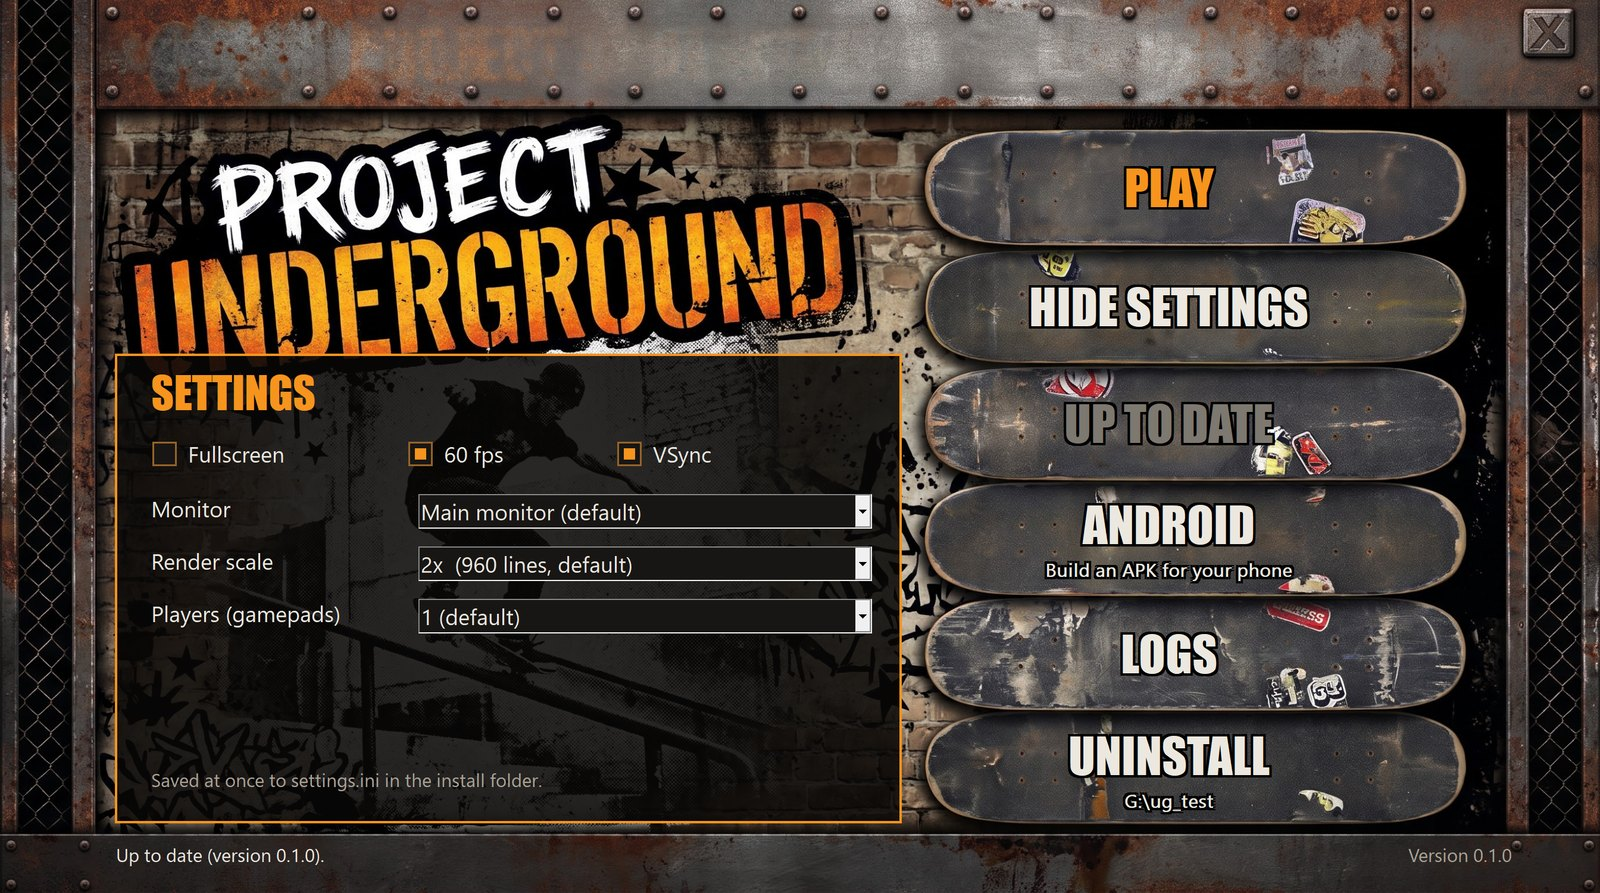
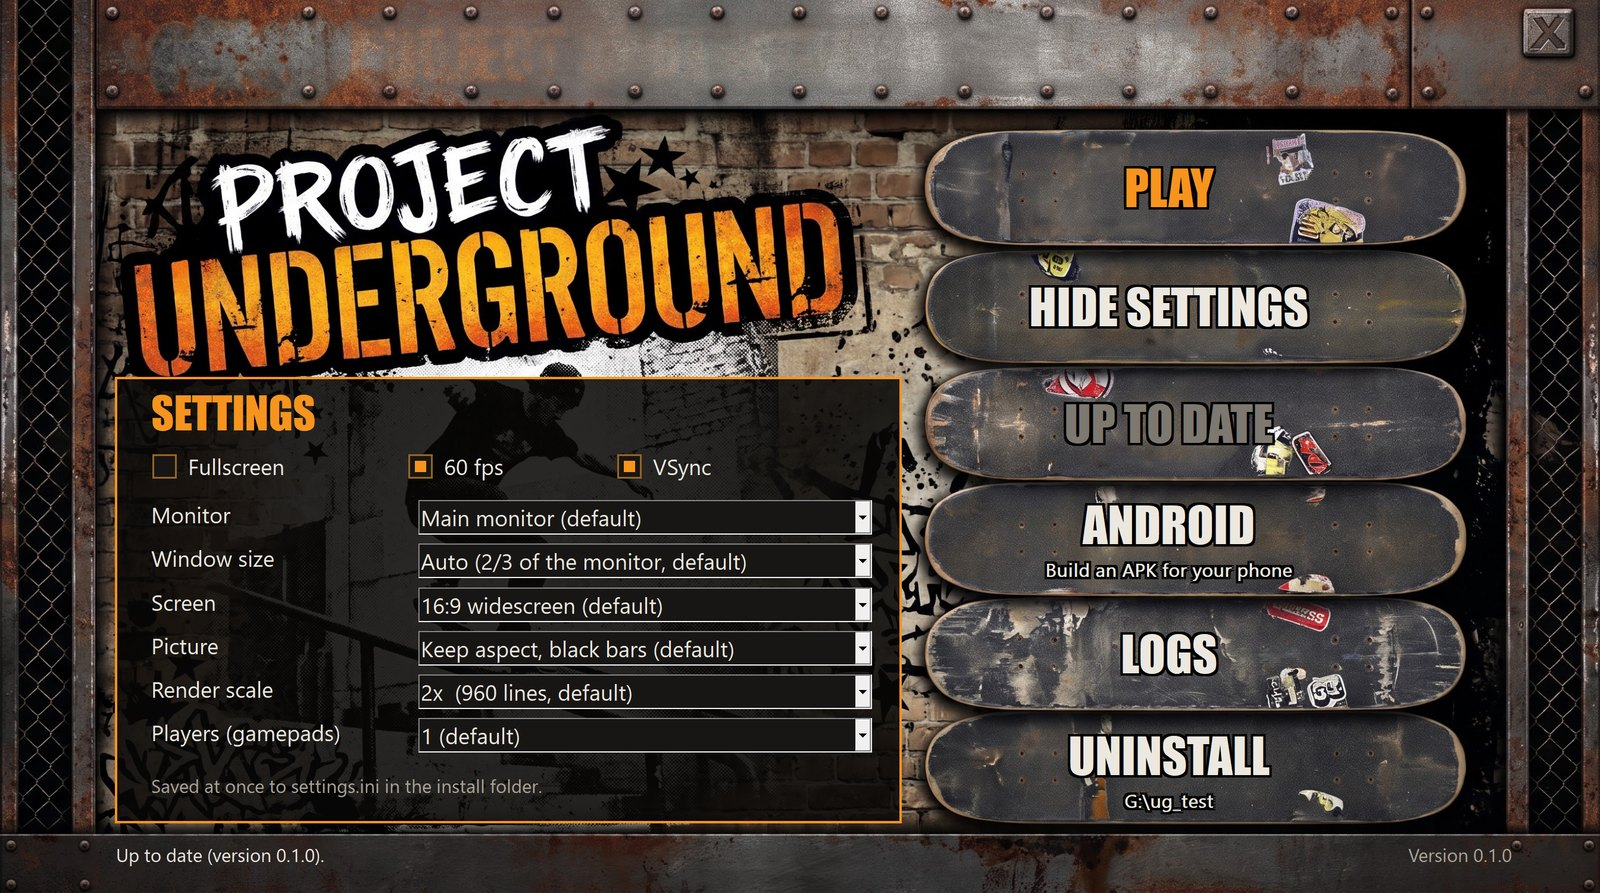
Display: widescreen 16:9, window size, aspect, DPI-aware window
- UG_WIDESCREEN (default on) sets the Xbox widescreen video flag: the game
  renders its own 16:9 mode (wider view, its own HUD layout) and the frame is
  presented at 16:9. UG_WIDESCREEN=0 keeps the original 4:3.
- UG_ASPECT=stretch fills the window; UG_WINDOW=WxH sets the windowed size
  (default 2/3 of the monitor's height at the game's aspect), centred on the
  chosen monitor (Windows and Linux).
- The game window is per-monitor DPI aware: no blurry upscale at 125-200%
  display scaling, sizes are real pixels.
- Launcher settings: Window size, Screen (16:9 / 4:3) and Picture (keep
  aspect / stretch).
- README: display features; fixed setup/launcher screenshots (the earlier
  captures were cut off by display scaling).

Claude-Session: https://claude.ai/code/session_01JYzPseC2DJZuhaFYBPRHMa

Changed region(s): [[0.0938, 0.4838, 0.5625, 0.9071], [0.0625, 0.3931, 0.5625, 0.6349], [0.0938, 0.6652, 0.2188, 0.7861]]

diff --git a/installer/setup.cpp b/installer/setup.cpp
@@ -52,7 +52,7 @@ static const wchar_t kShortcut[] = L"Project Underground.lnk";
 
 enum { ID_ISO_BROWSE = 200, ID_DIR_BROWSE, ID_DESKTOP, ID_STARTMENU, ID_INSTALL, ID_PROGRESS,
        ID_STATUS, ID_PLAY, ID_UPDATE, ID_UNINSTALL, ID_FULLSCREEN, ID_SCALE, ID_PADS, ID_FPS60, ID_VSYNC, ID_LOGS,
-       ID_MONITOR, ID_ANDROID, ID_SETTINGS, ID_QUIT, ID_CLOSE };
+       ID_MONITOR, ID_ANDROID, ID_SETTINGS, ID_QUIT, ID_CLOSE, ID_WINSIZE, ID_SCREEN, ID_FIT };
 #define WM_APP_STATUS (WM_APP + 1)
 #define WM_APP_PROGRESS (WM_APP + 2)
 #define WM_APP_DONE (WM_APP + 3)
@@ -466,6 +466,14 @@ struct Choice { const wchar_t* label; const wchar_t* value; };   // value nullpt
 static const Choice kScale[] = {{L"2x  (960 lines, default)", nullptr}, {L"1x  (480 lines)", L"1"}, {L"3x  (1440 lines)", L"3"},
                                 {L"4x  (1920 lines)", L"4"}, {L"5x  (2400 lines)", L"5"}, {L"6x  (2880 lines)", L"6"}};
 static const Choice kPads[] = {{L"1 (default)", nullptr}, {L"2", L"2"}, {L"3", L"3"}, {L"4", L"4"}};
+// UG_WINDOW: windowed client size (default: 2/3 of the monitor's height at the game's aspect)
+static const Choice kWinSize[] = {{L"Auto (2/3 of the monitor, default)", nullptr}, {L"1280 x 720", L"1280x720"},
+                                  {L"1600 x 900", L"1600x900"}, {L"1920 x 1080", L"1920x1080"},
+                                  {L"2560 x 1440", L"2560x1440"}, {L"3840 x 2160", L"3840x2160"},
+                                  {L"960 x 720  (4:3)", L"960x720"}, {L"1440 x 1080  (4:3)", L"1440x1080"}};
+// UG_WIDESCREEN: the game's own 16:9 mode (Xbox widescreen flag), on by default; UG_ASPECT=stretch fills the window
+static const Choice kScreen[] = {{L"16:9 widescreen (default)", nullptr}, {L"4:3 original", L"0"}};
+static const Choice kFit[] = {{L"Keep aspect, black bars (default)", nullptr}, {L"Stretch to the window", L"stretch"}};
 // Monitors in EnumDisplayMonitors order (the game's UG_MONITOR uses the same order); filled by InitMonitors.
 static Choice kMonitor[10] = {{L"Main monitor (default)", nullptr}};
 static std::wstring g_monLabels[9];
@@ -484,8 +492,9 @@ static BOOL CALLBACK MonEnum(HMONITOR m, HDC, LPRECT, LPARAM) {
     return TRUE;
 }
 struct ComboSetting { int id; const wchar_t* key; const Choice* c; int n; };
-static ComboSetting kCombos[] = {{ID_MONITOR, L"UG_MONITOR", kMonitor, 1}, {ID_SCALE, L"UG_SCALE", kScale, 6},
-                                 {ID_PADS, L"UG_PADS", kPads, 4}};
+static ComboSetting kCombos[] = {{ID_MONITOR, L"UG_MONITOR", kMonitor, 1}, {ID_WINSIZE, L"UG_WINDOW", kWinSize, 8},
+                                 {ID_SCREEN, L"UG_WIDESCREEN", kScreen, 2}, {ID_FIT, L"UG_ASPECT", kFit, 2},
+                                 {ID_SCALE, L"UG_SCALE", kScale, 6}, {ID_PADS, L"UG_PADS", kPads, 4}};
 static void InitMonitors() {
     EnumDisplayMonitors(nullptr, nullptr, MonEnum, 0);
     for (auto& cs : kCombos) if (cs.id == ID_MONITOR) cs.n = g_nMonitors;
@@ -618,10 +627,11 @@ static void BuildArt(int w, int h) {
         SelectObject(pd, op); SelectObject(pd, ob);
         DeleteObject(pen);
         ArtText(pd, {260, 665, 1500, 755}, g_titleFont, kAccent, L"SETTINGS", DT_SINGLELINE | DT_VCENTER);
-        ArtText(pd, {260, 875, 700, 935}, g_font, kText, L"Monitor", DT_SINGLELINE | DT_VCENTER);
-        ArtText(pd, {260, 965, 700, 1025}, g_font, kText, L"Render scale", DT_SINGLELINE | DT_VCENTER);
-        ArtText(pd, {260, 1055, 700, 1115}, g_font, kText, L"Players (gamepads)", DT_SINGLELINE | DT_VCENTER);
-        ArtText(pd, {260, 1300, 1500, 1380}, g_smallFont, kDim,
+        static const wchar_t* rows[] = {L"Monitor", L"Window size", L"Screen", L"Picture", L"Render scale",
+                                        L"Players (gamepads)"};
+        for (int i = 0; i < 6; i++)
+            ArtText(pd, {260, 855 + 75 * i, 700, 915 + 75 * i}, g_font, kText, rows[i], DT_SINGLELINE | DT_VCENTER);
+        ArtText(pd, {260, 1310, 1500, 1390}, g_smallFont, kDim,
                 L"Saved at once to settings.ini in the install folder.", DT_SINGLELINE | DT_VCENTER);
     }
     DeleteDC(pd);
@@ -845,7 +855,8 @@ static void Launch(const std::wstring& dir) {
 
 // Launcher settings controls (shown on the panel over the art when the SETTINGS board is on).
 static HWND g_settingsBtn;
-static const int kSettingIds[] = {ID_FULLSCREEN, ID_FPS60, ID_VSYNC, ID_MONITOR, ID_SCALE, ID_PADS};
+static const int kSettingIds[] = {ID_FULLSCREEN, ID_FPS60, ID_VSYNC, ID_MONITOR, ID_WINSIZE, ID_SCREEN, ID_FIT, ID_SCALE,
+                                  ID_PADS};
 static void ShowSettings(bool on) {
     g_panel = on;
     SelectObject(g_artDC, on ? g_artPanelBmp : g_artBmp);
@@ -896,7 +907,7 @@ static bool LauncherCommand(HWND h, int id, int code) {
     case ID_FULLSCREEN: case ID_FPS60: case ID_VSYNC:
         if (code == BN_CLICKED) SaveSettings();
         return true;
-    case ID_SCALE: case ID_PADS: case ID_MONITOR:
+    case ID_SCALE: case ID_PADS: case ID_MONITOR: case ID_WINSIZE: case ID_SCREEN: case ID_FIT:
         if (code == CBN_SELCHANGE) SaveSettings();
         return true;
     }
@@ -1047,12 +1058,15 @@ static void CreateLauncherControls() {
     MakeBoard(5, L"UNINSTALL", ID_UNINSTALL);
     SetSub(ID_UNINSTALL, g_instDir);
     MakeStatusBar(L"Checking for updates...", false);
-    MakeCheck(L"Fullscreen", ID_FULLSCREEN, 260, 780, 380);
-    MakeCheck(L"60 fps", ID_FPS60, 700, 780, 300);
-    MakeCheck(L"VSync", ID_VSYNC, 1060, 780, 300);
-    MakeCombo(ID_MONITOR, kMonitor, g_nMonitors, 720, 880, 780);
-    MakeCombo(ID_SCALE, kScale, 6, 720, 970, 780);
-    MakeCombo(ID_PADS, kPads, 4, 720, 1060, 780);
+    MakeCheck(L"Fullscreen", ID_FULLSCREEN, 260, 772, 380);
+    MakeCheck(L"60 fps", ID_FPS60, 700, 772, 300);
+    MakeCheck(L"VSync", ID_VSYNC, 1060, 772, 300);
+    MakeCombo(ID_MONITOR, kMonitor, g_nMonitors, 720, 860, 780);
+    MakeCombo(ID_WINSIZE, kWinSize, 8, 720, 935, 780);
+    MakeCombo(ID_SCREEN, kScreen, 2, 720, 1010, 780);
+    MakeCombo(ID_FIT, kFit, 2, 720, 1085, 780);
+    MakeCombo(ID_SCALE, kScale, 6, 720, 1160, 780);
+    MakeCombo(ID_PADS, kPads, 4, 720, 1235, 780);
     for (int id : kSettingIds) ShowWindow(GetDlgItem(g_wnd, id), SW_HIDE);
     LoadSettings();
     SetFocus(play);

diff --git a/runtime/src/gpu_vulkan.c b/runtime/src/gpu_vulkan.c
@@ -43,6 +43,7 @@ static uint32_t frame_no;
 
 #ifdef _WIN32
 
+static volatile int g_creating;
 static void toggle_fullscreen(HWND h) {
     static WINDOWPLACEMENT saved = {sizeof saved};
     LONG st = GetWindowLongW(h, GWL_STYLE);
@@ -71,6 +72,12 @@ static LRESULT CALLBACK wndproc(HWND h, UINT m, WPARAM w, LPARAM l) {
         if (w == VK_RETURN && (l & (1 << 29))) { toggle_fullscreen(h); return 0; }
         break;
     case WM_SYSCHAR: if (w == VK_RETURN) return 0; break;
+    case 0x02E0: {   /* WM_DPICHANGED (moved to a monitor with another scale): take Windows' suggested rect */
+        const RECT *s = (const RECT *)l;
+        if (!g_creating && !(GetWindowLongW(h, GWL_STYLE) & WS_POPUP))
+            SetWindowPos(h, NULL, s->left, s->top, s->right - s->left, s->bottom - s->top, SWP_NOZORDER | SWP_NOACTIVATE);
+        return 0;
+    }
     default: break;
     }
     return DefWindowProcW(h, m, w, l);
@@ -91,6 +98,16 @@ static BOOL CALLBACK mon_enum(HMONITOR m, HDC dc, LPRECT rc, LPARAM lp) {
 }
 
 static DWORD WINAPI window_thread(LPVOID ev) {
+    {   /* per-monitor DPI aware: else Windows scales a smaller swapchain up (blurry at 125-200% display scaling) and
+         * UG_WINDOW sizes would be in scaled units, not pixels */
+        typedef BOOL(WINAPI * SetCtx)(HANDLE);
+        SetCtx f = (SetCtx)(void *)GetProcAddress(GetModuleHandleW(L"user32.dll"), "SetProcessDpiAwarenessContext");
+        if (f && !f((HANDLE)-4)) LOG("[gpu] DPI awareness not set (error %lu)\n", GetLastError());   /* PER_MONITOR_AWARE_V2 */
+        /* this thread already exists: it keeps the old context unless it is set for the thread too */
+        typedef HANDLE(WINAPI * SetThr)(HANDLE);
+        SetThr t = (SetThr)(void *)GetProcAddress(GetModuleHandleW(L"user32.dll"), "SetThreadDpiAwarenessContext");
+        if (t) t((HANDLE)-4);
+    }
     WNDCLASSW wc = {0};
     wc.lpfnWndProc = wndproc;
     wc.hInstance = GetModuleHandleW(NULL);
@@ -115,13 +132,30 @@ static DWORD WINAPI window_thread(LPVOID ev) {
     HMONITOR hm = mp.found ? MonitorFromRect(&mp.pick, MONITOR_DEFAULTTONEAREST) : MonitorFromPoint(origin, MONITOR_DEFAULTTOPRIMARY);
     MONITORINFO mi = {sizeof mi};
     GetMonitorInfoW(hm, &mi);
+    /* client size: UG_WINDOW=WxH, else 2/3 of the monitor's height at the game's aspect; centred on the monitor */
     int mh = mi.rcMonitor.bottom - mi.rcMonitor.top;
-    int wh = mh * 2 / 3, ww = wh * 4 / 3;
+    int wh = mh * 2 / 3, ww = ug_widescreen() ? wh * 16 / 9 : wh * 4 / 3;
+    const char *wsz = getenv("UG_WINDOW");
+    int qw = 0, qh = 0;
+    if (wsz && sscanf(wsz, "%dx%d", &qw, &qh) == 2 && qw >= 320 && qh >= 240) { ww = qw; wh = qh; }
+    /* the frame at the monitor's own DPI (per-monitor aware: sizes are physical pixels) */
     RECT r = {0, 0, ww, wh};
-    AdjustWindowRect(&r, WS_OVERLAPPEDWINDOW, FALSE);
-    int x = mi.rcWork.left + 32, y = mi.rcWork.top + 32;
+    typedef BOOL(WINAPI * AdjForDpi)(RECT *, DWORD, BOOL, DWORD, UINT);
+    typedef HRESULT(WINAPI * MonDpi)(HMONITOR, int, UINT *, UINT *);
+    AdjForDpi adj = (AdjForDpi)(void *)GetProcAddress(GetModuleHandleW(L"user32.dll"), "AdjustWindowRectExForDpi");
+    HMODULE shc = LoadLibraryW(L"shcore.dll");
+    MonDpi mdpi = shc ? (MonDpi)(void *)GetProcAddress(shc, "GetDpiForMonitor") : NULL;
+    UINT dx = 96, dy = 96;
+    if (adj && mdpi && mdpi(hm, 0, &dx, &dy) == 0) adj(&r, WS_OVERLAPPEDWINDOW, FALSE, 0, dx);
+    else AdjustWindowRect(&r, WS_OVERLAPPEDWINDOW, FALSE);
+    int fw = r.right - r.left, fh = r.bottom - r.top;
+    int fx = (int)(mi.rcWork.right - mi.rcWork.left - fw) / 2, fy = (int)(mi.rcWork.bottom - mi.rcWork.top - fh) / 2;
+    int x = mi.rcWork.left + (fx > 0 ? fx : 0), y = mi.rcWork.top + (fy > 0 ? fy : 0);
+    g_creating = 1;   /* the WM_DPICHANGED sent while the window lands on its monitor must not rescale it */
     g_hwnd = CreateWindowExW(0, wc.lpszClassName, L"Tony Hawk's Underground (recomp)", WS_OVERLAPPEDWINDOW,
-                             x, y, r.right - r.left, r.bottom - r.top, NULL, NULL, wc.hInstance, NULL);
+                             x, y, fw, fh, NULL, NULL, wc.hInstance, NULL);
+    SetWindowPos(g_hwnd, NULL, x, y, fw, fh, SWP_NOZORDER | SWP_NOACTIVATE);
+    g_creating = 0;
     if (dev_run) ShowWindow(g_hwnd, SW_SHOWNOACTIVATE);
     else { ShowWindow(g_hwnd, SW_SHOW); SetForegroundWindow(g_hwnd); }
     if (getenv("UG_FULLSCREEN") && *getenv("UG_FULLSCREEN") == '1') toggle_fullscreen(g_hwnd);
@@ -1679,10 +1713,14 @@ static void submit_and_present(Surface *s) {
         vkCmdClearColorImage(cb, sc_img[img], VK_IMAGE_LAYOUT_TRANSFER_DST_OPTIMAL, &black, 1, &rg);
         if (s) {
             barrier(cb, &s->color, VK_IMAGE_ASPECT_COLOR_BIT, VK_IMAGE_LAYOUT_TRANSFER_SRC_OPTIMAL);
-            /* letterbox the guest surface's aspect into the window */
-            float sa = (float)s->w / s->h, wa = (float)sc_ext.width / sc_ext.height;
+            /* letterbox the guest surface's aspect into the window; widescreen frames are 16:9 anamorphic (4/3 wider
+             * than their pixels); UG_ASPECT=stretch fills the window */
+            static int stretch = -1;
+            if (stretch < 0) { const char *e = getenv("UG_ASPECT"); stretch = e && !strcmp(e, "stretch"); }
+            float sa = (float)s->w / s->h * (ug_widescreen() ? 4.0f / 3.0f : 1.0f), wa = (float)sc_ext.width / sc_ext.height;
             int dw = (int)sc_ext.width, dh = (int)sc_ext.height;
-            if (wa > sa) dw = (int)(dh * sa + 0.5f); else dh = (int)(dw / sa + 0.5f);
+            if (stretch) {}
+            else if (wa > sa) dw = (int)(dh * sa + 0.5f); else dh = (int)(dw / sa + 0.5f);
             int dx = ((int)sc_ext.width - dw) / 2, dy = ((int)sc_ext.height - dh) / 2;
             VkImageBlit bl = {{VK_IMAGE_ASPECT_COLOR_BIT, 0, 0, 1}, {{0, 0, 0}, {s->hw, s->hh, 1}},
                               {VK_IMAGE_ASPECT_COLOR_BIT, 0, 0, 1}, {{dx, dy, 0}, {dx + dw, dy + dh, 1}}};

diff --git a/runtime/src/linux/sdl_plat.c b/runtime/src/linux/sdl_plat.c
@@ -7,6 +7,7 @@
 #ifdef __ANDROID__
 void touch_event(uint32_t type, uint64_t id, float nx, float ny);   /* touch.c */
 #endif
+int ug_widescreen(void);   /* main.c (rt.h is not included here) */
 
 #define LOG(...) do { fprintf(stderr, __VA_ARGS__); fflush(stderr); } while (0)
 
@@ -58,9 +59,12 @@ HWND linux_create_window(void) {
     SDL_free(ids);
     SDL_Rect r = {0, 0, 1920, 1080};
     SDL_GetDisplayBounds(pick, &r);
-    const char *ws = getenv("UG_WIDESCREEN");
+    /* UG_WINDOW=WxH, else 2/3 of the display's height at the game's aspect (16:9 widescreen or 4:3) */
     int wh = r.h * 2 / 3;
-    int ww = ws && *ws == '0' ? wh * 4 / 3 : (int)((double)wh * r.w / r.h);
+    int ww = ug_widescreen() ? wh * 16 / 9 : wh * 4 / 3;
+    const char *wsz = getenv("UG_WINDOW");
+    int qw = 0, qh = 0;
+    if (wsz && sscanf(wsz, "%dx%d", &qw, &qh) == 2 && qw >= 320 && qh >= 240) { ww = qw; wh = qh; }
     SDL_PropertiesID p = SDL_CreateProperties();
     SDL_SetStringProperty(p, SDL_PROP_WINDOW_CREATE_TITLE_STRING, "Tony Hawk's Underground (recomp)");
     SDL_SetNumberProperty(p, SDL_PROP_WINDOW_CREATE_X_NUMBER, SDL_WINDOWPOS_CENTERED_DISPLAY(pick));

diff --git a/runtime/src/kernel.c b/runtime/src/kernel.c
@@ -598,7 +598,10 @@ K(24, ExQueryNonVolatileSetting) {
     uint32_t idx = ARG(0), v = 0;
     switch (idx) {
     case 7: v = 1; break;            /* XC_LANGUAGE: English */
-    case 8: v = 0x00400000; break;   /* XC_VIDEO: widescreen off, 480p allowed */
+    case 8:                          /* XC_VIDEO: 0x00400000 = 60 Hz; | 0x00010000 = widescreen (ug_widescreen: the
+                                      * game then renders 16:9 anamorphic, gpu_vulkan.c presents it at 16:9) */
+        v = 0x00400000 | (ug_widescreen() ? 0x00010000 : 0);
+        break;
     case 9: v = 0; break;            /* XC_AUDIO */
     case 0x103: v = 1; break;        /* XC_FACTORY_GAME_REGION: NA */
     case 0x104: v = 0x00400100; break; /* XC_FACTORY_AV_REGION: NTSC-M */

diff --git a/runtime/src/rt.h b/runtime/src/rt.h
@@ -25,6 +25,10 @@ extern int g_log_kernel;
 #define LOG(...) do { fprintf(stderr, __VA_ARGS__); fflush(stderr); } while (0)
 _Noreturn void rt_fatal(const char *fmt, ...);
 
+/* display settings (main.c): UG_WIDESCREEN (default on, "0" = the original 4:3) sets the Xbox widescreen video flag,
+ * so the game renders 16:9 anamorphic and the frame is presented at 16:9 */
+int ug_widescreen(void);
+
 /* host gamepads (pad_sdl.c): XINPUT_STATE layout; 0 = ok, 1167 = not connected */
 typedef struct {
     uint16_t wButtons; uint8_t bLeftTrigger, bRightTrigger; int16_t sThumbLX, sThumbLY, sThumbRX, sThumbRY;

diff --git a/runtime/src/main.c b/runtime/src/main.c
@@ -75,6 +75,7 @@ void x86_cpuid(uint32_t *eax, uint32_t *ebx, uint32_t *ecx, uint32_t *edx) {
     }
 }
 uint64_t x86_rdtsc(X86Context *c) { (void)c; return sched_now_100ns() * 733 / 10; /* 733 MHz */ }
+int ug_widescreen(void) { const char *e = getenv("UG_WIDESCREEN"); return !(e && *e == '0'); }
 
 double x87_load80(uint32_t a) {
     uint64_t mant = RD64(a);

diff --git a/README.md b/README.md
@@ -44,9 +44,14 @@ A static recompilation by 8gram Labs: the original x86 game code is translated t
   programs and register combiners run as shader interpreters, with shadow maps, fog and texture generation. No
   Direct3D, no DXVK.
 - **High resolution.** The game renders at a multiple of the Xbox's 480 lines: 2x (960 lines) by default, up to 6x.
-- **60 fps.** Frames are paced at 60 fps (the launcher can switch to 30), with VSync on or off.
-- **Launcher.** Play, display settings (fullscreen, monitor, render scale, players), updates, logs, the Android
-  build and uninstall, all on one screen.
+- **60 fps.** Frames are paced at a steady 60 fps (the launcher can switch to 30), with VSync on or off. The game
+  times its logic from real clocks, so it runs at the right speed.
+- **Widescreen.** The game's own 16:9 mode is on by default (the Xbox widescreen setting): a wider view of the
+  level. The original 4:3 is one click away.
+- **Window settings.** Windowed or borderless fullscreen (F11 or Alt+Enter), any monitor, window size presets,
+  keep-aspect or stretch, and sharp output at any Windows display scaling.
+- **Launcher.** Play, display settings (fullscreen, monitor, window size, widescreen, picture fit, render scale,
+  60 fps, VSync, players), updates, logs, the Android build and uninstall, all on one screen.
 - **Builds on your PC, no Visual Studio.** The setup fetches its own compiler (llvm-mingw, about 190 MB, once) and
   builds the game in about a minute. No admin rights needed.
 - **Linux.** The same renderer on Vulkan, SDL3 for the window, sound and controllers, and a `setup.sh` installer
@@ -73,7 +78,8 @@ rebuild the game in place and keep your saves and settings.
 | Saves, loading, cutscene streaming | Working |
 | Sound, music, movies | Working (DirectSound mixed in software) |
 | Renderer: textures, combiners, fog, shadow maps, texgen, depth clamp, polygon offset | Working |
-| Other levels | Not checked yet: renderer gaps (FF lighting, cube maps, some texgen modes, widescreen) may show up |
+| Widescreen 16:9 (the game's own mode), window size, monitor, fullscreen | Working |
+| Other levels | Not checked yet: renderer gaps (FF lighting, cube maps, some texgen modes) may show up |
 | Installer, launcher, updates, uninstall (Windows) | Install, update and uninstall tested |
 | Linux | Boots to New Jersey gameplay; install, update, uninstall and the updater tested (Ubuntu 24.04, WSL) |
 | Android | APK builds and signs on Windows and Linux; not yet run on a phone |

diff --git a/docs/installer.md b/docs/installer.md
@@ -29,8 +29,12 @@ Gauntlet's installer (G:\Project Gauntlet\docs\installer.md) without its Visual 
     Start menu / Install / Quit; launcher = Play / Settings (panel over the left art) / Update / Android / Logs /
     Uninstall. Status, progress and version sit on the bottom metal bar. The game window loads underground.ico.
 - Launcher: Play (UG_NOUPDATE=1), update check, settings to `settings.ini [settings]` (UG_FULLSCREEN, UG_FPS=30 when
-  60 fps is off, UG_VSYNC=0 when VSync is off, UG_MONITOR, UG_SCALE, UG_PADS; a default deletes the key; the game's
-  main.c load_settings applies keys not already in the environment), Logs, Uninstall.
+  60 fps is off, UG_VSYNC=0 when VSync is off, UG_MONITOR, UG_WINDOW=WxH (windowed client size in pixels; default 2/3
+  of the monitor's height at the game's aspect, centred), UG_WIDESCREEN=0 (4:3; default on: the Xbox widescreen video
+  flag, the game renders 16:9 anamorphic and the frame is shown at 16:9), UG_ASPECT=stretch (fill the window), UG_SCALE,
+  UG_PADS; a default deletes the key; the game's main.c load_settings applies keys not already in the environment),
+  Logs, Uninstall. The game window is per-monitor DPI aware (sizes are physical pixels; no blurry upscale at 125-200%
+  display scaling). F11 / Alt+Enter toggle borderless fullscreen on the window's monitor.
 - Game updater (`runtime/src/updater.c`): installed builds GET forge `8gramlabs/Project-Underground` releases/latest;
   a newer tag asks, downloads `ProjectUnderground-Setup-*.exe`, runs `--update --dir <install>`. Off for dev builds,
   UG_INPUT runs, UG_NOUPDATE=1. Test overrides UG_UPDATE_REPO / UG_UPDATE_ASSET / UG_UPDATE_API.
